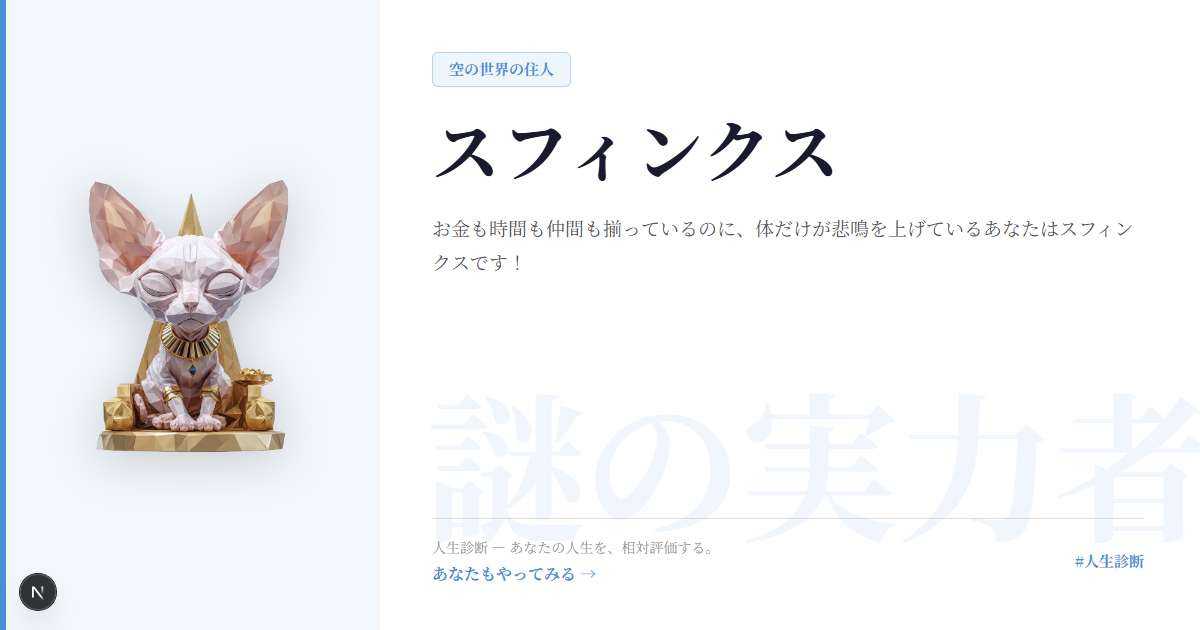
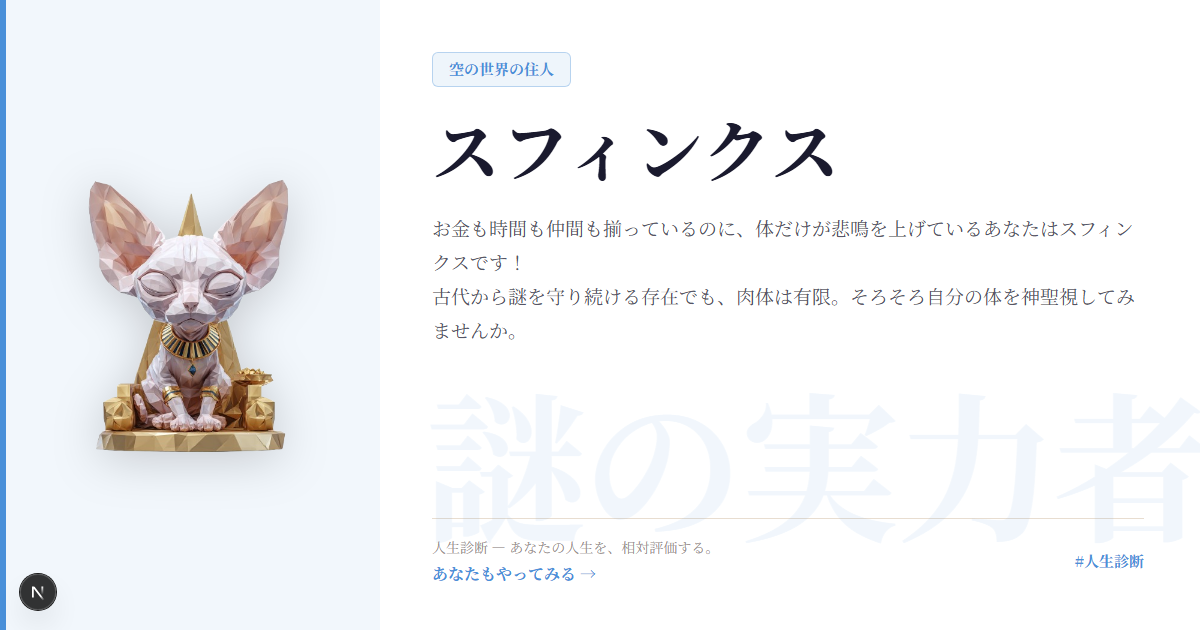
fix: OGP画像を全17枚再生成・説明文の折り返しとキャラ名を修正
- ogp-gen/page.tsx: shortDesc（初行のみ）→ def.description 全文表示に変更
  wordBreak/webkit-line-clamp:4 で最大4行に制限・折り返し保証
- 修正されたキャラ: king（大将軍→孤独な大王）、goblin_king（ゴブリンキング→オークの族長）
- 修正されたレイアウト: icarus（空白多すぎ）、namakemono（テキストはみ出し）
- 全17枚を最新キャラ定義・説明文で再生成

Changed region(s): [[0.37, 0.4524, 0.9558, 0.4825], [0.3392, 0.5127, 0.4317, 0.5429]]

diff --git a/apps/web/app/ogp-gen/[characterId]/page.tsx b/apps/web/app/ogp-gen/[characterId]/page.tsx
@@ -48,8 +48,6 @@ export default async function OgpGenPage({
   const color = WORLD_COLOR[def.world] ?? "#F57550";
   const worldName = WORLD_NAME[def.world] ?? def.world;
   const imageSrc = `/life-diagnosis/characters/${encodeURIComponent(def.name)}.png`;
-  // 最初の文末（。）までを説明文として使用
-  const shortDesc = def.description.split("\n")[0] ?? def.description;
   const keyword = CHARACTER_KEYWORD[characterId] ?? "";
 
   return (
@@ -172,19 +170,31 @@ export default async function OgpGenPage({
             {def.name}
           </h1>
 
-          {/* 説明文 */}
-          <p
+          {/* 説明文（最大4行） */}
+          <div
             style={{
-              fontSize: 19,
-              color: "#555566",
-              lineHeight: 1.8,
-              margin: 0,
               flex: 1,
-              whiteSpace: "pre-line",
+              minWidth: 0,
+              overflow: "hidden",
             }}
           >
-            {shortDesc}
-          </p>
+            <p
+              style={{
+                fontSize: 19,
+                color: "#555566",
+                lineHeight: 1.8,
+                margin: 0,
+                whiteSpace: "pre-line",
+                wordBreak: "break-all",
+                display: "-webkit-box",
+                WebkitLineClamp: 4,
+                WebkitBoxOrient: "vertical",
+                overflow: "hidden",
+              }}
+            >
+              {def.description}
+            </p>
+          </div>
 
           {/* フッター */}
           <div
